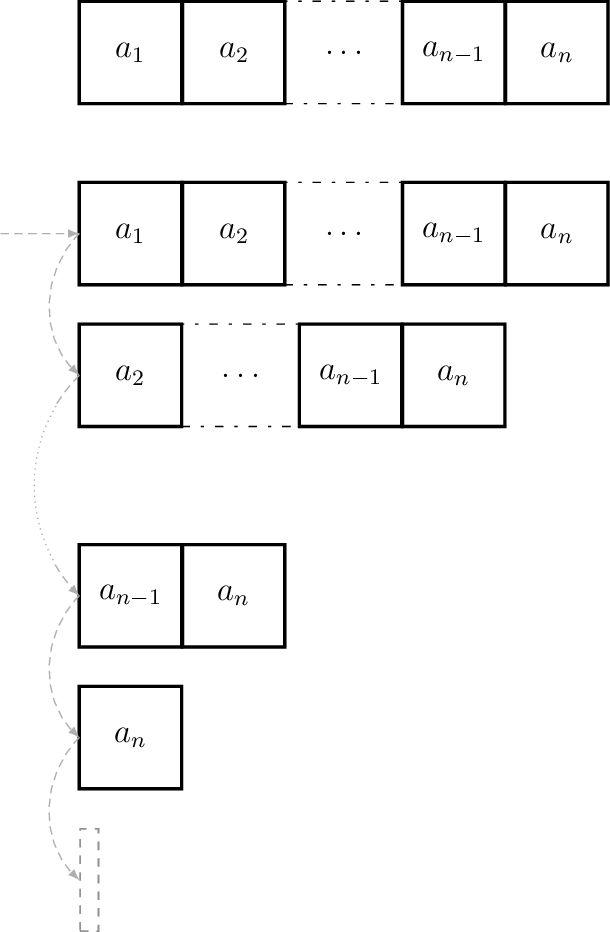
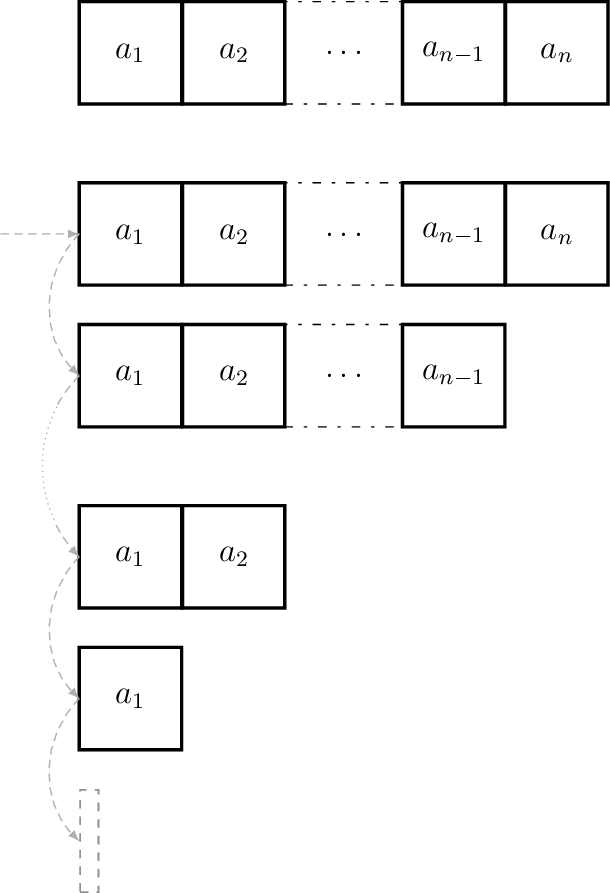
inits/tails functions

diff --git a/src/images/inits.tex b/src/images/inits.tex
@@ -16,31 +16,31 @@
   \node (i1n)   {$a_n$};     \\
 };
 
-\matrix (I2) [collection, below=5mm of I1, matrix anchor=i22.north west] at (i11.south west) {
-  \node (i22) {$a_2$};     &
+\matrix (I2) [collection, below=5mm of I1, matrix anchor=i2n.north west] at (i11.south west) {
+  \node (i2n) {$a_1$};     &
+  \node       {$a_2$};     &
   \ellipsis                &
-  \node       {$a_{n-1}$}; &
-  \node       {$a_n$};     \\
+  \node       {$a_{n-1}$}; \\
 };
 
-\matrix (IN-1) [collection, below=15mm of I2, matrix anchor=in-1n-1.north west] at (i22.south west) {
-  \node (in-1n-1) {$a_{n-1}$}; &
-  \node           {$a_n$};     \\
+\matrix (IN-1) [collection, below=10mm of I2, matrix anchor=in-11.north west] at (i2n.south west) {
+  \node (in-11) {$a_1$}; &
+  \node         {$a_2$}; \\
 };
 
-\matrix (IN) [collection, below=5mm of IN-1, matrix anchor=inn.north west] at (in-1n-1.south west) {
-  \node (inn) {$a_n$};     \\
+\matrix (IN) [collection, below=5mm of IN-1, matrix anchor=in1.north west] at (in-11.south west) {
+  \node (in1) {$a_1$};     \\
 };
 
-\node (empty) [below=5mm of IN, empty, anchor=north west] at (inn.south west) {$$};
+\node (empty) [below=5mm of IN, empty, anchor=north west] at (in1.south west) {$$};
 
 \begin{scope}
   \tikzstyle{every path}=[arrow, iteration]
   \draw ([xshift=-1cm] i11.west) -- (i11.west);
-  \draw (i11.west) to (i22.west);
-  \draw (i22.west) [middotted] to (in-1n-1.west);
-  \draw (in-1n-1.west) to (inn.west);
-  \draw (inn.west) to (empty.west);
+  \draw (i11.west) to (i2n.west);
+  \draw (i2n.west) [middotted] to (in-11.west);
+  \draw (in-11.west) to (in1.west);
+  \draw (in1.west) to (empty.west);
 \end{scope}
 
 \input{_footer.tex}

diff --git a/src/images/tails.tex b/src/images/tails.tex
@@ -1,0 +1,46 @@
+\input{_header.tex}
+
+\matrix (A) [collection, name prefix=a] {
+  \node (1)   {$a_1$};     &
+  \node (2)   {$a_2$};     &
+  \ellipsis                &
+  \node (n-1) {$a_{n-1}$}; &
+  \node (n)   {$a_n$};     \\
+};
+
+\matrix (I1) [collection, below=1cm of A, matrix anchor=i11.north west] at (a1.south west) {
+  \node (i11)   {$a_1$};     &
+  \node (i12)   {$a_2$};     &
+  \ellipsis                &
+  \node (i1n-1) {$a_{n-1}$}; &
+  \node (i1n)   {$a_n$};     \\
+};
+
+\matrix (I2) [collection, below=5mm of I1, matrix anchor=i22.north west] at (i11.south west) {
+  \node (i22) {$a_2$};     &
+  \ellipsis                &
+  \node       {$a_{n-1}$}; &
+  \node       {$a_n$};     \\
+};
+
+\matrix (IN-1) [collection, below=10mm of I2, matrix anchor=in-1n-1.north west] at (i22.south west) {
+  \node (in-1n-1) {$a_{n-1}$}; &
+  \node           {$a_n$}; \\
+};
+
+\matrix (IN) [collection, below=5mm of IN-1, matrix anchor=inn.north west] at (in-1n-1.south west) {
+  \node (inn) {$a_n$}; \\
+};
+
+\node (empty) [below=5mm of IN, empty, anchor=north west] at (inn.south west) {};
+
+\begin{scope}
+  \tikzstyle{every path}=[arrow, iteration]
+  \draw ([xshift=-1cm] i11.west) -- (i11.west);
+  \draw (i11.west) to (i22.west);
+  \draw (i22.west) [middotted] to (in-1n-1.west);
+  \draw (in-1n-1.west) to (inn.west);
+  \draw (inn.west) to (empty.west);
+\end{scope}
+
+\input{_footer.tex}
